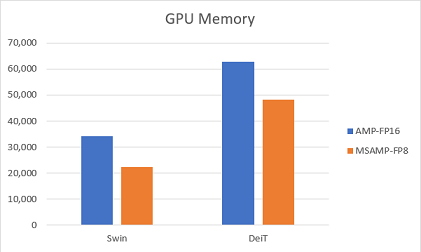
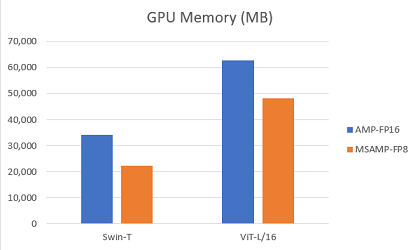
fix comments

diff --git a/README.md b/README.md
@@ -137,7 +137,7 @@ Here here details of different MS-AMP optimization levels:
 
 We evaluated the training loss and validation performance of a typical model, Swin-Transformer, using both MS-AMP O2 and FP16 AMP. Our observations showed that the model trained with MS-AMP O2 mode achieved comparable performance to those trained using FP16 AMP. This demonstrates the effectiveness of the Mixed FP8 O2 mode in MS-AMP.
 
-Here is the result for Swin-Transformer tiny model:
+Here is the result for Swin-T model:
 
 ![image](./docs/assets/swin-tiny-acc.png) ![image](./docs/assets/swin-tiny-loss.png)
 
@@ -147,7 +147,7 @@ For detailed setting and results, please go to [MS-AMP-Example](https://github.c
 
 MS-AMP preserves 32-bit accuracy while using only a fraction of the memory footprint on a range of tasks, including the DeiT model and Swin Transformer for ImageNet classification. For example, for a model with 1 billion parameters, MS-AMP with O2 mode can save approximately 12GB of GPU memory compared to FP16 AMP.
 
-Here is the result for Swin-Transformer giant model and DeiT large model:
+Here is the result for Swin-giant-1B model and ViT-L/16 model:
 
 ![Image](./docs/assets/gpu-memory.png)
 
